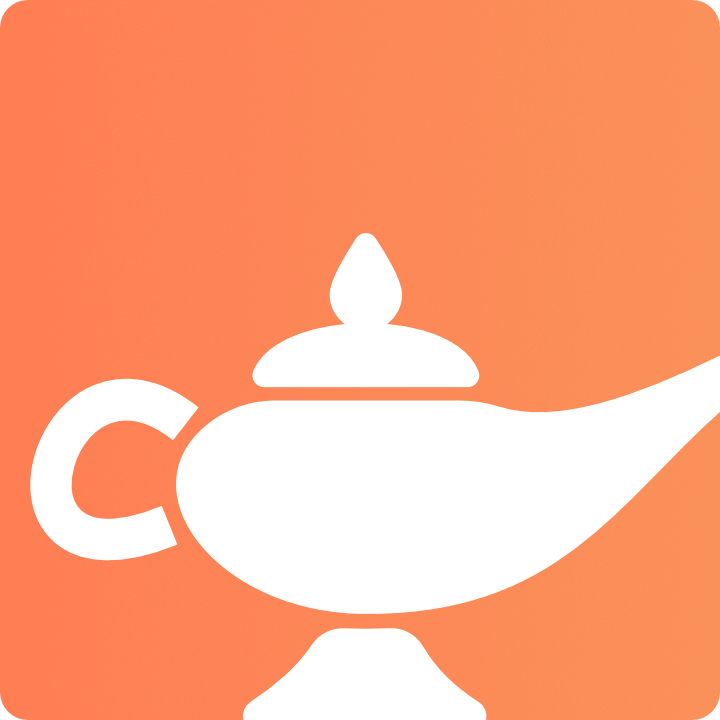
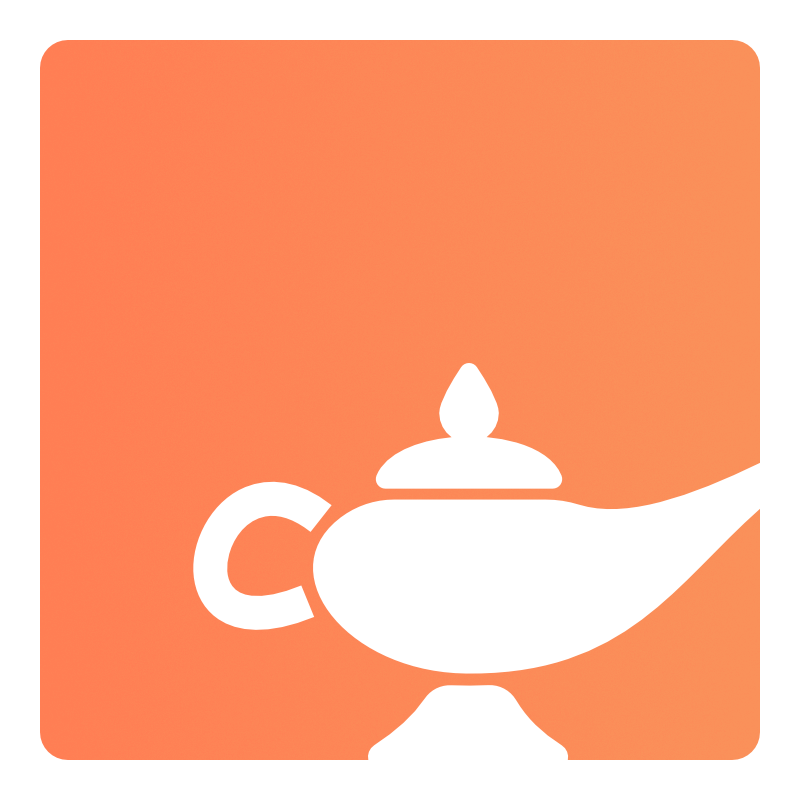
fix broken images

Changed region(s): [[0.0, 0.0, 1.0, 1.0], [0.7028, 0.7944, 0.7639, 0.825]]

diff --git a/docs/icon_resources.md b/docs/icon_resources.md
@@ -2,8 +2,8 @@
 
 The **cross-language-cpp** Djinni has a new, unique logo. If you want to report about or reference to our Project, please make sure to use the official Logo resources:
 
-- **Icon** (720x720):<br>
-    <img src="assets/resources/djinni_icon.png" style="max-height:100px">
+- **Icon** (800x800):<br>
+    <div style="max-width: 100px">![Icon](assets/resources/djinni_icon.png)</div>
 - **Full Logo** (1189 x 500):<br>
-    <img src="assets/resources/djinni_logo.png" style="max-height:140px">
+    <div style="max-width: 350px">![Full Logo](assets/resources/djinni_logo.png)</div>
 - [Affinity Designer Resource file](assets/resources/djinni_icon.afdesign)

diff --git a/README.md b/README.md
@@ -34,7 +34,7 @@ mkdocs serve
 
 ### Build (github actions)
 
-The page is automatically deployed on each PR into `main`, and once a day at midnight.
+The page is automatically deployed on each merge into `main`, and once a day at midnight.
 
 The submodules follow the HEAD of the `main` branch. This means that changes in the documentation in once of the submodules will automatically be rendered and published at midnight.
 
